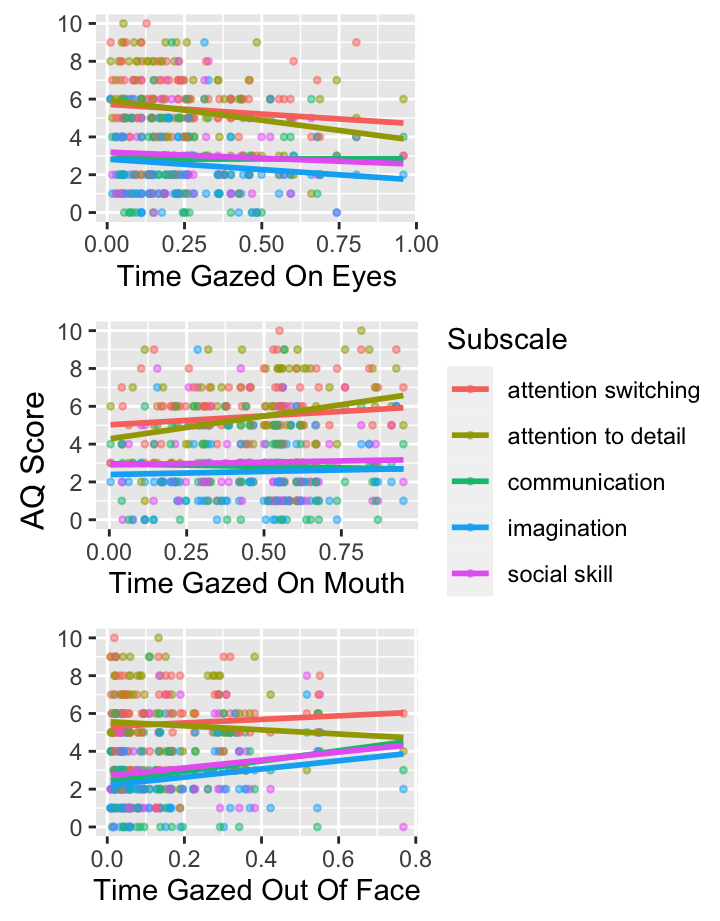
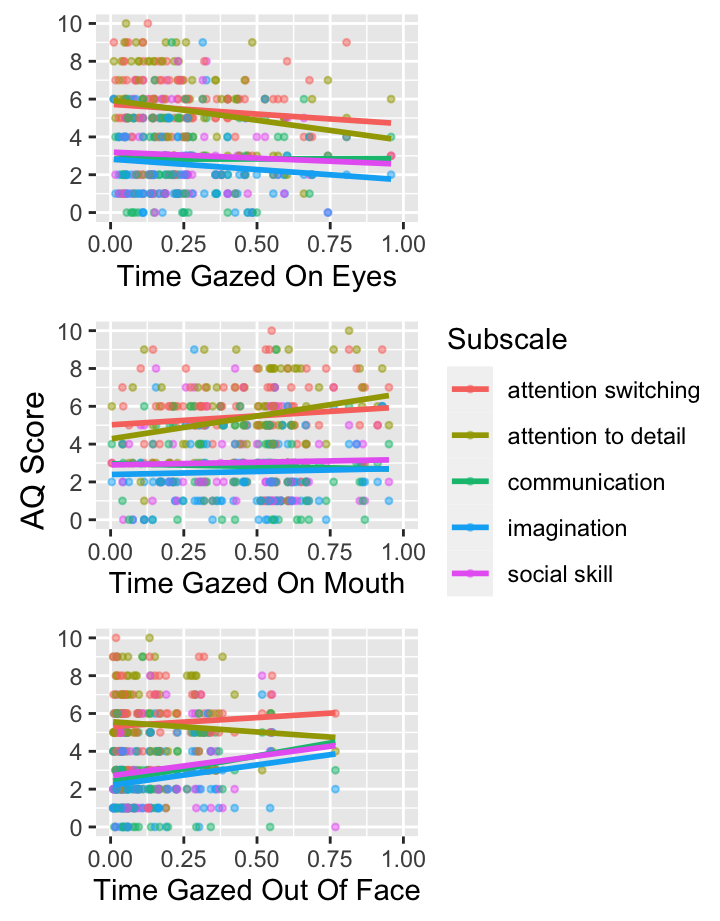
changed the last plot

diff --git a/docs/index.html b/docs/index.html
@@ -2011,8 +2011,8 @@ class="section level3">
 <div class="knitr-options" data-fig-width="960" data-fig-height="768">
 
 </div>
-<div class="plotly html-widget html-fill-item-overflow-hidden html-fill-item" id="htmlwidget-af808b2f5ba3160e1770" style="width:960px;height:768px;"></div>
-<script type="application/json" data-for="htmlwidget-af808b2f5ba3160e1770">{"x":{"data":[{"x":[1,2,3,4,5,6],"y":[1,2,3,4,5,6],"z":[[0,0,0.402298850574713,0,0.402298850574713,0],[null,0,0.609195402298851,0,0.0344827586206897,0],[null,null,0,0,0.0574712643678161,0],[null,null,null,1,0.816091954022989,0.413793103448276],[null,null,null,null,0.0804597701149425,0.137931034482759],[null,null,null,null,null,0.64367816091954]],"text":[["value: 0.00<br />Var1: social skill<br />Var2: communication","value: 0.00<br />Var1: total<br />Var2: communication","value: 0.35<br />Var1: attention to detail<br />Var2: communication","value: 0.00<br />Var1: imagination<br />Var2: communication","value: 0.35<br />Var1: fixation<br />Var2: communication","value: 0.00<br />Var1: attention switching<br />Var2: communication"],[null,"value: 0.00<br />Var1: total<br />Var2: social skill","value: 0.53<br />Var1: attention to detail<br />Var2: social skill","value: 0.00<br />Var1: imagination<br />Var2: social skill","value: 0.03<br />Var1: fixation<br />Var2: social skill","value: 0.00<br />Var1: attention switching<br />Var2: social skill"],[null,null,"value: 0.00<br />Var1: attention to detail<br />Var2: total","value: 0.00<br />Var1: imagination<br />Var2: total","value: 0.05<br />Var1: fixation<br />Var2: total","value: 0.00<br />Var1: attention switching<br />Var2: total"],[null,null,null,"value: 0.87<br />Var1: imagination<br />Var2: attention to detail","value: 0.71<br />Var1: fixation<br />Var2: attention to detail","value: 0.36<br />Var1: attention switching<br />Var2: attention to detail"],[null,null,null,null,"value: 0.07<br />Var1: fixation<br />Var2: imagination","value: 0.12<br />Var1: attention switching<br />Var2: imagination"],[null,null,null,null,null,"value: 0.56<br />Var1: attention switching<br />Var2: fixation"]],"colorscale":[[0,"#0000FF"],[0.0344827586206897,"#1C12FF"],[0.0574712643678161,"#251AFE"],[0.0804597701149425,"#2D21FE"],[0.137931034482759,"#3B2EFD"],[0.402298850574713,"#625DFA"],[0.413793103448276,"#635FF9"],[0.609195402298851,"#737DF6"],[0.64367816091954,"#7583F6"],[0.816091954022989,"#7F9CF2"],[1,"#85B8EF"]],"type":"heatmap","showscale":false,"autocolorscale":false,"showlegend":false,"xaxis":"x","yaxis":"y","hoverinfo":"text","frame":null},{"x":[3,5,3,4,5,6,5,6,6],"y":[1,1,2,4,4,4,5,5,6],"text":["value: 0.35<br />Var1: attention to detail<br />Var2: communication","value: 0.35<br />Var1: fixation<br />Var2: communication","value: 0.53<br />Var1: attention to detail<br />Var2: social skill","value: 0.87<br />Var1: imagination<br />Var2: attention to detail","value: 0.71<br />Var1: fixation<br />Var2: attention to detail","value: 0.36<br />Var1: attention switching<br />Var2: attention to detail","value: 0.07<br />Var1: fixation<br />Var2: imagination","value: 0.12<br />Var1: attention switching<br />Var2: imagination","value: 0.56<br />Var1: attention switching<br />Var2: fixation"],"type":"scatter","mode":"markers","marker":{"autocolorscale":false,"color":"rgba(98,93,250,1)","opacity":1,"size":18.8976377952756,"symbol":"x-thin-open","line":{"width":1.88976377952756,"color":"rgba(0,0,0,1)"}},"hoveron":"points","showlegend":false,"xaxis":"x","yaxis":"y","hoverinfo":"text","frame":null},{"x":[1],"y":[1],"name":"99_961f81cd83d32ebf523b360e6ae6b75b","type":"scatter","mode":"markers","opacity":0,"hoverinfo":"skip","showlegend":false,"marker":{"color":[0,1],"colorscale":[[0,"#00008B"],[0.00334448160535117,"#00008C"],[0.00668896321070234,"#00008C"],[0.0100334448160535,"#00008D"],[0.0133779264214047,"#00008E"],[0.0167224080267558,"#00008F"],[0.020066889632107,"#00008F"],[0.0234113712374582,"#000090"],[0.0267558528428093,"#000091"],[0.0301003344481605,"#000092"],[0.0334448160535117,"#000092"],[0.0367892976588629,"#000093"],[0.040133779264214,"#000094"],[0.0434782608695652,"#000095"],[0.0468227424749164,"#000095"],[0.0501672240802676,"#000096"],[0.0535117056856187,"#000097"],[0.0568561872909699,"#000098"],[0.0602006688963211,"#000098"],[0.0635451505016723,"#000099"],[0.0668896321070234,"#00009A"],[0.0702341137123746,"#00009A"],[0.0735785953177258,"#00009B"],[0.0769230769230769,"#00009C"],[0.0802675585284281,"#00009D"],[0.0836120401337793,"#00009D"],[0.0869565217391304,"#00009E"],[0.0903010033444816,"#00009F"],[0.0936454849498328,"#0000A0"],[0.0969899665551839,"#0000A0"],[0.100334448160535,"#0000A1"],[0.103678929765886,"#0000A2"],[0.107023411371237,"#0000A3"],[0.110367892976589,"#0000A3"],[0.11371237458194,"#0000A4"],[0.117056856187291,"#0000A5"],[0.120401337792642,"#0000A6"],[0.123745819397993,"#0000A6"],[0.127090301003345,"#0000A7"],[0.130434782608696,"#0000A8"],[0.133779264214047,"#0000A9"],[0.137123745819398,"#0000A9"],[0.140468227424749,"#0000AA"],[0.1438127090301,"#0000AB"],[0.147157190635452,"#0000AC"],[0.150501672240803,"#0000AD"],[0.153846153846154,"#0000AD"],[0.157190635451505,"#0000AE"],[0.160535117056856,"#0000AF"],[0.163879598662207,"#0000B0"],[0.167224080267559,"#0000B0"],[0.17056856187291,"#0000B1"],[0.173913043478261,"#0000B2"],[0.177257525083612,"#0000B3"],[0.180602006688963,"#0000B3"],[0.183946488294314,"#0000B4"],[0.187290969899666,"#0000B5"],[0.190635451505017,"#0000B6"],[0.193979933110368,"#0000B6"],[0.197324414715719,"#0000B7"],[0.20066889632107,"#0000B8"],[0.204013377926421,"#0000B9"],[0.207357859531773,"#0000BA"],[0.210702341137124,"#0000BA"],[0.214046822742475,"#0000BB"],[0.217391304347826,"#0000BC"],[0.220735785953177,"#0000BD"],[0.224080267558528,"#0000BD"],[0.22742474916388,"#0000BE"],[0.230769230769231,"#0000BF"],[0.234113712374582,"#0000C0"],[0.237458193979933,"#0000C0"],[0.240802675585284,"#0000C1"],[0.244147157190635,"#0000C2"],[0.247491638795987,"#0000C3"],[0.250836120401338,"#0000C4"],[0.254180602006689,"#0000C4"],[0.25752508361204,"#0000C5"],[0.260869565217391,"#0000C6"],[0.264214046822742,"#0000C7"],[0.267558528428094,"#0000C7"],[0.270903010033445,"#0000C8"],[0.274247491638796,"#0000C9"],[0.277591973244147,"#0000CA"],[0.280936454849498,"#0000CB"],[0.284280936454849,"#0000CB"],[0.287625418060201,"#0000CC"],[0.290969899665552,"#0000CD"],[0.294314381270903,"#0000CE"],[0.297658862876254,"#0000CF"],[0.301003344481605,"#0000CF"],[0.304347826086957,"#0000D0"],[0.307692307692308,"#0000D1"],[0.311036789297659,"#0000D2"],[0.31438127090301,"#0000D2"],[0.317725752508361,"#0000D3"],[0.321070234113712,"#0000D4"],[0.324414715719064,"#0000D5"],[0.327759197324415,"#0000D6"],[0.331103678929766,"#0000D6"],[0.334448160535117,"#0000D7"],[0.337792642140468,"#0000D8"],[0.341137123745819,"#0000D9"],[0.344481605351171,"#0000DA"],[0.347826086956522,"#0000DA"],[0.351170568561873,"#0000DB"],[0.354515050167224,"#0000DC"],[0.357859531772575,"#0000DD"],[0.361204013377926,"#0000DE"],[0.364548494983278,"#0000DE"],[0.367892976588629,"#0000DF"],[0.37123745819398,"#0000E0"],[0.374581939799331,"#0000E1"],[0.377926421404682,"#0000E2"],[0.381270903010033,"#0000E2"],[0.384615384615385,"#0000E3"],[0.387959866220736,"#0000E4"],[0.391304347826087,"#0000E5"],[0.394648829431438,"#0000E6"],[0.397993311036789,"#0000E6"],[0.40133779264214,"#0000E7"],[0.404682274247492,"#0000E8"],[0.408026755852843,"#0000E9"],[0.411371237458194,"#0000EA"],[0.414715719063545,"#0000EA"],[0.418060200668896,"#0000EB"],[0.421404682274247,"#0000EC"],[0.424749163879599,"#0000ED"],[0.42809364548495,"#0000EE"],[0.431438127090301,"#0000EE"],[0.434782608695652,"#0000EF"],[0.438127090301003,"#0000F0"],[0.441471571906354,"#0000F1"],[0.444816053511706,"#0000F2"],[0.448160535117057,"#0000F2"],[0.451505016722408,"#0000F3"],[0.454849498327759,"#0000F4"],[0.45819397993311,"#0000F5"],[0.461538461538462,"#0000F6"],[0.464882943143813,"#0000F6"],[0.468227424749164,"#0000F7"],[0.471571906354515,"#0000F8"],[0.474916387959866,"#0000F9"],[0.478260869565217,"#0000FA"],[0.481605351170569,"#0000FB"],[0.48494983277592,"#0000FB"],[0.488294314381271,"#0000FC"],[0.491638795986622,"#0000FD"],[0.494983277591973,"#0000FE"],[0.498327759197324,"#0000FF"],[0.501672240802676,"#0402FF"],[0.505016722408027,"#0C06FF"],[0.508361204013378,"#130BFF"],[0.511705685618729,"#170FFF"],[0.51505016722408,"#1C12FF"],[0.518394648829431,"#1F15FE"],[0.521739130434783,"#2218FE"],[0.525083612040134,"#251AFE"],[0.528428093645485,"#281DFE"],[0.531772575250836,"#2B1FFE"],[0.535117056856187,"#2D21FE"],[0.538461538461538,"#2F23FE"],[0.54180602006689,"#3125FE"],[0.545150501672241,"#3327FE"],[0.548494983277592,"#3529FE"],[0.551839464882943,"#372AFE"],[0.555183946488294,"#392CFD"],[0.558528428093645,"#3B2EFD"],[0.561872909698997,"#3C2FFD"],[0.565217391304348,"#3E31FD"],[0.568561872909699,"#4033FD"],[0.57190635451505,"#4134FD"],[0.575250836120401,"#4336FD"],[0.578595317725752,"#4437FD"],[0.581939799331104,"#4539FD"],[0.585284280936455,"#473AFD"],[0.588628762541806,"#483CFC"],[0.591973244147157,"#493DFC"],[0.595317725752508,"#4B3EFC"],[0.598662207357859,"#4C40FC"],[0.602006688963211,"#4D41FC"],[0.605351170568562,"#4E43FC"],[0.608695652173913,"#4F44FC"],[0.612040133779264,"#5045FC"],[0.615384615384615,"#5147FC"],[0.618729096989967,"#5248FB"],[0.622073578595318,"#5449FB"],[0.625418060200669,"#554BFB"],[0.62876254180602,"#564CFB"],[0.632107023411371,"#574DFB"],[0.635451505016722,"#584FFB"],[0.638795986622074,"#5850FB"],[0.642140468227425,"#5951FB"],[0.645484949832776,"#5A52FB"],[0.648829431438127,"#5B54FB"],[0.652173913043478,"#5C55FA"],[0.655518394648829,"#5D56FA"],[0.658862876254181,"#5E57FA"],[0.662207357859532,"#5F59FA"],[0.665551839464883,"#605AFA"],[0.668896321070234,"#605BFA"],[0.672240802675585,"#615CFA"],[0.675585284280936,"#625EFA"],[0.678929765886288,"#635FF9"],[0.682274247491639,"#6360F9"],[0.68561872909699,"#6461F9"],[0.688963210702341,"#6563F9"],[0.692307692307692,"#6664F9"],[0.695652173913043,"#6665F9"],[0.698996655518395,"#6766F9"],[0.702341137123746,"#6867F9"],[0.705685618729097,"#6969F9"],[0.709030100334448,"#696AF8"],[0.712374581939799,"#6A6BF8"],[0.71571906354515,"#6B6CF8"],[0.719063545150502,"#6B6DF8"],[0.722408026755853,"#6C6EF8"],[0.725752508361204,"#6C70F8"],[0.729096989966555,"#6D71F8"],[0.732441471571906,"#6E72F8"],[0.735785953177257,"#6E73F7"],[0.739130434782609,"#6F74F7"],[0.74247491638796,"#6F76F7"],[0.745819397993311,"#7077F7"],[0.749163879598662,"#7178F7"],[0.752508361204013,"#7179F7"],[0.755852842809364,"#727AF7"],[0.759197324414716,"#727BF7"],[0.762541806020067,"#737DF6"],[0.765886287625418,"#737EF6"],[0.769230769230769,"#747FF6"],[0.77257525083612,"#7480F6"],[0.775919732441472,"#7581F6"],[0.779264214046823,"#7582F6"],[0.782608695652174,"#7683F6"],[0.785953177257525,"#7685F5"],[0.789297658862876,"#7786F5"],[0.792642140468227,"#7787F5"],[0.795986622073579,"#7888F5"],[0.79933110367893,"#7889F5"],[0.802675585284281,"#798AF5"],[0.806020066889632,"#798CF5"],[0.809364548494983,"#798DF4"],[0.812709030100334,"#7A8EF4"],[0.816053511705686,"#7A8FF4"],[0.819397993311037,"#7B90F4"],[0.822742474916388,"#7B91F4"],[0.826086956521739,"#7B92F4"],[0.82943143812709,"#7C94F4"],[0.832775919732441,"#7C95F3"],[0.836120401337793,"#7D96F3"],[0.839464882943144,"#7D97F3"],[0.842809364548495,"#7D98F3"],[0.846153846153846,"#7E99F3"],[0.849498327759197,"#7E9AF3"],[0.852842809364548,"#7E9CF3"],[0.8561872909699,"#7F9DF2"],[0.859531772575251,"#7F9EF2"],[0.862876254180602,"#7F9FF2"],[0.866220735785953,"#80A0F2"],[0.869565217391304,"#80A1F2"],[0.872909698996655,"#80A3F2"],[0.876254180602007,"#81A4F1"],[0.879598662207358,"#81A5F1"],[0.882943143812709,"#81A6F1"],[0.88628762541806,"#81A7F1"],[0.889632107023411,"#82A8F1"],[0.892976588628763,"#82A9F1"],[0.896321070234114,"#82ABF0"],[0.899665551839465,"#82ACF0"],[0.903010033444816,"#83ADF0"],[0.906354515050167,"#83AEF0"],[0.909698996655518,"#83AFF0"],[0.91304347826087,"#83B0F0"],[0.916387959866221,"#84B1EF"],[0.919732441471572,"#84B3EF"],[0.923076923076923,"#84B4EF"],[0.926421404682274,"#84B5EF"],[0.929765886287625,"#84B6EF"],[0.933110367892977,"#85B7EF"],[0.936454849498328,"#85B8EE"],[0.939799331103679,"#85B9EE"],[0.94314381270903,"#85BBEE"],[0.946488294314381,"#85BCEE"],[0.949832775919732,"#85BDEE"],[0.953177257525084,"#86BEEE"],[0.956521739130435,"#86BFED"],[0.959866220735786,"#86C0ED"],[0.963210702341137,"#86C1ED"],[0.966555183946488,"#86C3ED"],[0.969899665551839,"#86C4ED"],[0.973244147157191,"#86C5ED"],[0.976588628762542,"#86C6EC"],[0.979933110367893,"#87C7EC"],[0.983277591973244,"#87C8EC"],[0.986622073578595,"#87C9EC"],[0.989966555183946,"#87CBEC"],[0.993311036789298,"#87CCEB"],[0.996655518394649,"#87CDEB"],[1,"#87CEEB"]],"colorbar":{"bgcolor":null,"bordercolor":null,"borderwidth":0,"thickness":23.04,"title":"Corr","titlefont":{"color":"rgba(0,0,0,1)","family":"","size":14.6118721461187},"tickmode":"array","ticktext":["-1.0","-0.5","0.0","0.5","1.0"],"tickvals":[0,0.25,0.5,0.75,1],"tickfont":{"color":"rgba(0,0,0,1)","family":"","size":11.689497716895},"ticklen":2,"len":0.5}},"xaxis":"x","yaxis":"y","frame":null}],"layout":{"margin":{"t":25.1324200913242,"r":7.30593607305936,"b":92.7755251489066,"l":162.39103362391},"font":{"color":"rgba(0,0,0,1)","family":"","size":14.6118721461187},"xaxis":{"domain":[0,1],"automargin":true,"type":"linear","autorange":false,"range":[0.4,6.6],"tickmode":"array","ticktext":["social skill","total","attention to detail","imagination","fixation","attention switching"],"tickvals":[1,2,3,4,5,6],"categoryorder":"array","categoryarray":["social skill","total","attention to detail","imagination","fixation","attention switching"],"nticks":null,"ticks":"","tickcolor":null,"ticklen":3.65296803652968,"tickwidth":0,"showticklabels":true,"tickfont":{"color":"rgba(77,77,77,1)","family":"","size":15.9402241594022},"tickangle":-45,"showline":false,"linecolor":null,"linewidth":0,"showgrid":true,"gridcolor":"rgba(235,235,235,1)","gridwidth":0.66417600664176,"zeroline":false,"anchor":"y","title":{"text":"","font":{"color":null,"family":null,"size":0}},"scaleanchor":"y","scaleratio":1,"hoverformat":".2f"},"yaxis":{"domain":[0,1],"automargin":true,"type":"linear","autorange":false,"range":[0.4,6.6],"tickmode":"array","ticktext":["communication","social skill","total","attention to detail","imagination","fixation"],"tickvals":[1,2,3,4,5,6],"categoryorder":"array","categoryarray":["communication","social skill","total","attention to detail","imagination","fixation"],"nticks":null,"ticks":"","tickcolor":null,"ticklen":3.65296803652968,"tickwidth":0,"showticklabels":true,"tickfont":{"color":"rgba(77,77,77,1)","family":"","size":15.9402241594022},"tickangle":-0,"showline":false,"linecolor":null,"linewidth":0,"showgrid":true,"gridcolor":"rgba(235,235,235,1)","gridwidth":0.66417600664176,"zeroline":false,"anchor":"x","title":{"text":"","font":{"color":null,"family":null,"size":0}},"scaleanchor":"x","scaleratio":1,"hoverformat":".2f"},"shapes":[{"type":"rect","fillcolor":null,"line":{"color":null,"width":0,"linetype":[]},"yref":"paper","xref":"paper","x0":0,"x1":1,"y0":0,"y1":1}],"showlegend":false,"legend":{"bgcolor":null,"bordercolor":null,"borderwidth":0,"font":{"color":"rgba(0,0,0,1)","family":"","size":11.689497716895},"title":{"text":"","font":{"color":"rgba(0,0,0,1)","family":"","size":14.6118721461187}}},"hovermode":"closest","barmode":"relative"},"config":{"doubleClick":"reset","modeBarButtonsToAdd":["hoverclosest","hovercompare"],"showSendToCloud":false},"source":"A","attrs":{"7d983456a292":{"fill":{},"x":{},"y":{},"type":"heatmap"},"7d9823cb3a16":{"fill":{},"x":{},"y":{}}},"cur_data":"7d983456a292","visdat":{"7d983456a292":["function (y) ","x"],"7d9823cb3a16":["function (y) ","x"]},"highlight":{"on":"plotly_click","persistent":false,"dynamic":false,"selectize":false,"opacityDim":0.2,"selected":{"opacity":1},"debounce":0},"shinyEvents":["plotly_hover","plotly_click","plotly_selected","plotly_relayout","plotly_brushed","plotly_brushing","plotly_clickannotation","plotly_doubleclick","plotly_deselect","plotly_afterplot","plotly_sunburstclick"],"base_url":"https://plot.ly"},"evals":[],"jsHooks":[]}</script>
+<div class="plotly html-widget html-fill-item-overflow-hidden html-fill-item" id="htmlwidget-35739a0f27ff62c9fadf" style="width:960px;height:768px;"></div>
+<script type="application/json" data-for="htmlwidget-35739a0f27ff62c9fadf">{"x":{"data":[{"x":[1,2,3,4,5,6],"y":[1,2,3,4,5,6],"z":[[0,0,0.402298850574713,0,0.402298850574713,0],[null,0,0.609195402298851,0,0.0344827586206897,0],[null,null,0,0,0.0574712643678161,0],[null,null,null,1,0.816091954022989,0.413793103448276],[null,null,null,null,0.0804597701149425,0.137931034482759],[null,null,null,null,null,0.64367816091954]],"text":[["value: 0.00<br />Var1: social skill<br />Var2: communication","value: 0.00<br />Var1: total<br />Var2: communication","value: 0.35<br />Var1: attention to detail<br />Var2: communication","value: 0.00<br />Var1: imagination<br />Var2: communication","value: 0.35<br />Var1: fixation<br />Var2: communication","value: 0.00<br />Var1: attention switching<br />Var2: communication"],[null,"value: 0.00<br />Var1: total<br />Var2: social skill","value: 0.53<br />Var1: attention to detail<br />Var2: social skill","value: 0.00<br />Var1: imagination<br />Var2: social skill","value: 0.03<br />Var1: fixation<br />Var2: social skill","value: 0.00<br />Var1: attention switching<br />Var2: social skill"],[null,null,"value: 0.00<br />Var1: attention to detail<br />Var2: total","value: 0.00<br />Var1: imagination<br />Var2: total","value: 0.05<br />Var1: fixation<br />Var2: total","value: 0.00<br />Var1: attention switching<br />Var2: total"],[null,null,null,"value: 0.87<br />Var1: imagination<br />Var2: attention to detail","value: 0.71<br />Var1: fixation<br />Var2: attention to detail","value: 0.36<br />Var1: attention switching<br />Var2: attention to detail"],[null,null,null,null,"value: 0.07<br />Var1: fixation<br />Var2: imagination","value: 0.12<br />Var1: attention switching<br />Var2: imagination"],[null,null,null,null,null,"value: 0.56<br />Var1: attention switching<br />Var2: fixation"]],"colorscale":[[0,"#F7FAFC"],[0.0344827586206897,"#FCFDFE"],[0.0574712643678161,"#FFFFFF"],[0.0804597701149425,"#FFFCFA"],[0.137931034482759,"#FFF4EE"],[0.402298850574713,"#FFCFB8"],[0.413793103448276,"#FFCDB6"],[0.609195402298851,"#FDB38F"],[0.64367816091954,"#FCAE89"],[0.816091954022989,"#F59668"],[1,"#ED7C44"]],"type":"heatmap","showscale":false,"autocolorscale":false,"showlegend":false,"xaxis":"x","yaxis":"y","hoverinfo":"text","frame":null},{"x":[1,2,3,4,5,6,2,3,4,5,6,3,4,5,6,4,5,6,5,6,6],"y":[1,1,1,1,1,1,2,2,2,2,2,3,3,3,3,4,4,4,5,5,6],"text":[0,0,0.35,0,0.35,0,0,0.53,0,0.03,0,0,0,0.05,0,0.87,0.71,0.36,0.07,0.12,0.56],"hovertext":["value: 0.00<br />Var1: social skill<br />Var2: communication","value: 0.00<br />Var1: total<br />Var2: communication","value: 0.35<br />Var1: attention to detail<br />Var2: communication","value: 0.00<br />Var1: imagination<br />Var2: communication","value: 0.35<br />Var1: fixation<br />Var2: communication","value: 0.00<br />Var1: attention switching<br />Var2: communication","value: 0.00<br />Var1: total<br />Var2: social skill","value: 0.53<br />Var1: attention to detail<br />Var2: social skill","value: 0.00<br />Var1: imagination<br />Var2: social skill","value: 0.03<br />Var1: fixation<br />Var2: social skill","value: 0.00<br />Var1: attention switching<br />Var2: social skill","value: 0.00<br />Var1: attention to detail<br />Var2: total","value: 0.00<br />Var1: imagination<br />Var2: total","value: 0.05<br />Var1: fixation<br />Var2: total","value: 0.00<br />Var1: attention switching<br />Var2: total","value: 0.87<br />Var1: imagination<br />Var2: attention to detail","value: 0.71<br />Var1: fixation<br />Var2: attention to detail","value: 0.36<br />Var1: attention switching<br />Var2: attention to detail","value: 0.07<br />Var1: fixation<br />Var2: imagination","value: 0.12<br />Var1: attention switching<br />Var2: imagination","value: 0.56<br />Var1: attention switching<br />Var2: fixation"],"textfont":{"size":18.8976377952756,"color":"rgba(0,0,0,1)"},"type":"scatter","mode":"text","hoveron":"points","showlegend":false,"xaxis":"x","yaxis":"y","hoverinfo":"text","frame":null},{"x":[1],"y":[1],"name":"99_a7c8c7773e15b2d8a0dbb75cee8d6ae5","type":"scatter","mode":"markers","opacity":0,"hoverinfo":"skip","showlegend":false,"marker":{"color":[0,1],"colorscale":[[0,"#F7FAFC"],[0.00334448160535117,"#F8FAFC"],[0.00668896321070234,"#F8FAFC"],[0.0100334448160535,"#F9FBFC"],[0.0133779264214047,"#F9FBFD"],[0.0167224080267559,"#FAFBFD"],[0.020066889632107,"#FAFCFD"],[0.0234113712374582,"#FBFCFD"],[0.0267558528428094,"#FBFDFD"],[0.0301003344481605,"#FCFDFE"],[0.0334448160535117,"#FDFDFE"],[0.0367892976588629,"#FDFEFE"],[0.040133779264214,"#FEFEFE"],[0.0434782608695652,"#FEFEFF"],[0.0468227424749164,"#FFFFFF"],[0.0501672240802676,"#FFFFFF"],[0.0535117056856187,"#FFFEFE"],[0.0568561872909699,"#FFFEFD"],[0.0602006688963211,"#FFFDFD"],[0.0635451505016722,"#FFFDFC"],[0.0668896321070234,"#FFFCFB"],[0.0702341137123746,"#FFFCFA"],[0.0735785953177257,"#FFFBF9"],[0.0769230769230769,"#FFFBF9"],[0.0802675585284281,"#FFFAF8"],[0.0836120401337793,"#FFFAF7"],[0.0869565217391304,"#FFF9F6"],[0.0903010033444816,"#FFF9F5"],[0.0936454849498328,"#FFF8F5"],[0.096989966555184,"#FFF7F4"],[0.100334448160535,"#FFF7F3"],[0.103678929765886,"#FFF6F2"],[0.107023411371237,"#FFF6F1"],[0.110367892976589,"#FFF5F1"],[0.11371237458194,"#FFF5F0"],[0.117056856187291,"#FFF4EF"],[0.120401337792642,"#FFF4EE"],[0.123745819397993,"#FFF3ED"],[0.127090301003344,"#FFF3ED"],[0.130434782608696,"#FFF2EC"],[0.133779264214047,"#FFF2EB"],[0.137123745819398,"#FFF1EA"],[0.140468227424749,"#FFF0E9"],[0.1438127090301,"#FFF0E9"],[0.147157190635451,"#FFEFE8"],[0.150501672240803,"#FFEFE7"],[0.153846153846154,"#FFEEE6"],[0.157190635451505,"#FFEEE5"],[0.160535117056856,"#FFEDE5"],[0.163879598662207,"#FFEDE4"],[0.167224080267559,"#FFECE3"],[0.17056856187291,"#FFECE2"],[0.173913043478261,"#FFEBE1"],[0.177257525083612,"#FFEBE1"],[0.180602006688963,"#FFEAE0"],[0.183946488294314,"#FFEADF"],[0.187290969899666,"#FFE9DE"],[0.190635451505017,"#FFE8DD"],[0.193979933110368,"#FFE8DD"],[0.197324414715719,"#FFE7DC"],[0.20066889632107,"#FFE7DB"],[0.204013377926421,"#FFE6DA"],[0.207357859531773,"#FFE6DA"],[0.210702341137124,"#FFE5D9"],[0.214046822742475,"#FFE5D8"],[0.217391304347826,"#FFE4D7"],[0.220735785953177,"#FFE4D6"],[0.224080267558528,"#FFE3D6"],[0.22742474916388,"#FFE3D5"],[0.230769230769231,"#FFE2D4"],[0.234113712374582,"#FFE1D3"],[0.237458193979933,"#FFE1D2"],[0.240802675585284,"#FFE0D2"],[0.244147157190635,"#FFE0D1"],[0.247491638795987,"#FFDFD0"],[0.250836120401338,"#FFDFCF"],[0.254180602006689,"#FFDECF"],[0.25752508361204,"#FFDECE"],[0.260869565217391,"#FFDDCD"],[0.264214046822742,"#FFDDCC"],[0.267558528428094,"#FFDCCB"],[0.270903010033445,"#FFDCCB"],[0.274247491638796,"#FFDBCA"],[0.277591973244147,"#FFDBC9"],[0.280936454849498,"#FFDAC8"],[0.284280936454849,"#FFD9C8"],[0.287625418060201,"#FFD9C7"],[0.290969899665552,"#FFD8C6"],[0.294314381270903,"#FFD8C5"],[0.297658862876254,"#FFD7C4"],[0.301003344481605,"#FFD7C4"],[0.304347826086957,"#FFD6C3"],[0.307692307692308,"#FFD6C2"],[0.311036789297659,"#FFD5C1"],[0.31438127090301,"#FFD5C1"],[0.317725752508361,"#FFD4C0"],[0.321070234113712,"#FFD4BF"],[0.324414715719064,"#FFD3BE"],[0.327759197324415,"#FFD3BD"],[0.331103678929766,"#FFD2BD"],[0.334448160535117,"#FFD2BC"],[0.337792642140468,"#FFD1BB"],[0.341137123745819,"#FFD0BA"],[0.344481605351171,"#FFD0BA"],[0.347826086956522,"#FFCFB9"],[0.351170568561873,"#FFCFB8"],[0.354515050167224,"#FFCEB7"],[0.357859531772575,"#FFCEB6"],[0.361204013377926,"#FFCDB6"],[0.364548494983278,"#FFCDB5"],[0.367892976588629,"#FFCCB4"],[0.37123745819398,"#FFCCB3"],[0.374581939799331,"#FFCBB3"],[0.377926421404682,"#FFCBB2"],[0.381270903010033,"#FFCAB1"],[0.384615384615385,"#FFCAB0"],[0.387959866220736,"#FFC9B0"],[0.391304347826087,"#FFC8AF"],[0.394648829431438,"#FFC8AE"],[0.397993311036789,"#FFC7AD"],[0.40133779264214,"#FFC7AD"],[0.404682274247492,"#FFC6AC"],[0.408026755852843,"#FFC6AB"],[0.411371237458194,"#FFC5AA"],[0.414715719063545,"#FFC5A9"],[0.418060200668896,"#FFC4A9"],[0.421404682274247,"#FFC4A8"],[0.424749163879599,"#FFC3A7"],[0.42809364548495,"#FFC3A6"],[0.431438127090301,"#FFC2A6"],[0.434782608695652,"#FFC2A5"],[0.438127090301003,"#FFC1A4"],[0.441471571906354,"#FFC1A3"],[0.444816053511706,"#FFC0A3"],[0.448160535117057,"#FFBFA2"],[0.451505016722408,"#FFBFA1"],[0.454849498327759,"#FFBEA0"],[0.45819397993311,"#FFBEA0"],[0.461538461538462,"#FFBD9F"],[0.464882943143813,"#FEBD9E"],[0.468227424749164,"#FEBC9D"],[0.471571906354515,"#FEBC9D"],[0.474916387959866,"#FEBB9C"],[0.478260869565217,"#FEBB9B"],[0.481605351170569,"#FEBA9A"],[0.48494983277592,"#FEBA9A"],[0.488294314381271,"#FEB999"],[0.491638795986622,"#FEB998"],[0.494983277591973,"#FEB897"],[0.498327759197324,"#FEB897"],[0.501672240802676,"#FDB796"],[0.505016722408027,"#FDB695"],[0.508361204013378,"#FDB694"],[0.511705685618729,"#FDB594"],[0.51505016722408,"#FDB593"],[0.518394648829431,"#FDB492"],[0.521739130434783,"#FDB491"],[0.525083612040134,"#FDB391"],[0.528428093645485,"#FDB390"],[0.531772575250836,"#FDB28F"],[0.535117056856187,"#FCB28E"],[0.538461538461538,"#FCB18E"],[0.54180602006689,"#FCB18D"],[0.545150501672241,"#FCB08C"],[0.548494983277592,"#FCB08B"],[0.551839464882943,"#FCAF8B"],[0.555183946488294,"#FCAF8A"],[0.558528428093645,"#FCAE89"],[0.561872909698997,"#FBAE88"],[0.565217391304348,"#FBAD88"],[0.568561872909699,"#FBAC87"],[0.57190635451505,"#FBAC86"],[0.575250836120401,"#FBAB85"],[0.578595317725752,"#FBAB85"],[0.581939799331104,"#FBAA84"],[0.585284280936455,"#FBAA83"],[0.588628762541806,"#FBA982"],[0.591973244147157,"#FAA982"],[0.595317725752508,"#FAA881"],[0.598662207357859,"#FAA880"],[0.602006688963211,"#FAA77F"],[0.605351170568562,"#FAA77F"],[0.608695652173913,"#FAA67E"],[0.612040133779264,"#FAA67D"],[0.615384615384615,"#F9A57C"],[0.618729096989967,"#F9A57C"],[0.622073578595318,"#F9A47B"],[0.625418060200669,"#F9A37A"],[0.62876254180602,"#F9A379"],[0.632107023411371,"#F9A279"],[0.635451505016722,"#F9A278"],[0.638795986622074,"#F9A177"],[0.642140468227425,"#F8A177"],[0.645484949832776,"#F8A076"],[0.648829431438127,"#F8A075"],[0.652173913043478,"#F89F74"],[0.655518394648829,"#F89F74"],[0.658862876254181,"#F89E73"],[0.662207357859532,"#F89E72"],[0.665551839464883,"#F79D71"],[0.668896321070234,"#F79D71"],[0.672240802675585,"#F79C70"],[0.675585284280936,"#F79B6F"],[0.678929765886288,"#F79B6E"],[0.682274247491639,"#F79A6E"],[0.68561872909699,"#F69A6D"],[0.688963210702341,"#F6996C"],[0.692307692307692,"#F6996B"],[0.695652173913043,"#F6986B"],[0.698996655518395,"#F6986A"],[0.702341137123746,"#F69769"],[0.705685618729097,"#F69769"],[0.709030100334448,"#F59668"],[0.712374581939799,"#F59667"],[0.71571906354515,"#F59566"],[0.719063545150502,"#F59566"],[0.722408026755853,"#F59465"],[0.725752508361204,"#F59464"],[0.729096989966555,"#F49363"],[0.732441471571906,"#F49263"],[0.735785953177257,"#F49262"],[0.739130434782609,"#F49161"],[0.74247491638796,"#F49160"],[0.745819397993311,"#F49060"],[0.749163879598662,"#F3905F"],[0.752508361204013,"#F38F5E"],[0.755852842809364,"#F38F5E"],[0.759197324414716,"#F38E5D"],[0.762541806020067,"#F38E5C"],[0.765886287625418,"#F28D5B"],[0.769230769230769,"#F28D5B"],[0.77257525083612,"#F28C5A"],[0.775919732441472,"#F28C59"],[0.779264214046823,"#F28B58"],[0.782608695652174,"#F28A58"],[0.785953177257525,"#F18A57"],[0.789297658862876,"#F18956"],[0.792642140468227,"#F18955"],[0.795986622073579,"#F18855"],[0.79933110367893,"#F18854"],[0.802675585284281,"#F08753"],[0.806020066889632,"#F08753"],[0.809364548494983,"#F08652"],[0.812709030100334,"#F08651"],[0.816053511705686,"#F08550"],[0.819397993311037,"#F08550"],[0.822742474916388,"#EF844F"],[0.826086956521739,"#EF834E"],[0.82943143812709,"#EF834D"],[0.832775919732441,"#EF824D"],[0.836120401337793,"#EF824C"],[0.839464882943144,"#EE814B"],[0.842809364548495,"#EE814A"],[0.846153846153846,"#EE804A"],[0.849498327759197,"#EE8049"],[0.852842809364548,"#EE7F48"],[0.8561872909699,"#ED7F47"],[0.859531772575251,"#ED7E47"],[0.862876254180602,"#ED7E46"],[0.866220735785953,"#ED7D45"],[0.869565217391304,"#ED7C44"],[0.872909698996655,"#EC7C44"],[0.876254180602007,"#EC7B43"],[0.879598662207358,"#EC7B42"],[0.882943143812709,"#EC7A41"],[0.88628762541806,"#EC7A41"],[0.889632107023411,"#EB7940"],[0.892976588628763,"#EB793F"],[0.896321070234114,"#EB783E"],[0.899665551839465,"#EB783E"],[0.903010033444816,"#EA773D"],[0.906354515050167,"#EA763C"],[0.909698996655518,"#EA763B"],[0.91304347826087,"#EA753B"],[0.916387959866221,"#EA753A"],[0.919732441471572,"#E97439"],[0.923076923076923,"#E97438"],[0.926421404682274,"#E97338"],[0.929765886287625,"#E97337"],[0.933110367892977,"#E97236"],[0.936454849498328,"#E87235"],[0.939799331103679,"#E87135"],[0.94314381270903,"#E87034"],[0.946488294314381,"#E87033"],[0.949832775919732,"#E76F32"],[0.953177257525084,"#E76F31"],[0.956521739130435,"#E76E31"],[0.959866220735786,"#E76E30"],[0.963210702341137,"#E76D2F"],[0.966555183946488,"#E66D2E"],[0.969899665551839,"#E66C2D"],[0.973244147157191,"#E66B2D"],[0.976588628762542,"#E66B2C"],[0.979933110367893,"#E56A2B"],[0.983277591973244,"#E56A2A"],[0.986622073578595,"#E56929"],[0.989966555183946,"#E56929"],[0.993311036789298,"#E46828"],[0.996655518394649,"#E46827"],[1,"#E46726"]],"colorbar":{"bgcolor":null,"bordercolor":null,"borderwidth":0,"thickness":23.04,"title":"value","titlefont":{"color":"rgba(0,0,0,1)","family":"","size":14.6118721461187},"tickmode":"array","ticktext":["0.00","0.25","0.50","0.75","1.00"],"tickvals":[0,0.25,0.5,0.75,1],"tickfont":{"color":"rgba(0,0,0,1)","family":"","size":11.689497716895},"ticklen":2,"len":0.5}},"xaxis":"x","yaxis":"y","frame":null}],"layout":{"margin":{"t":25.1324200913242,"r":7.30593607305936,"b":92.7755251489066,"l":162.39103362391},"font":{"color":"rgba(0,0,0,1)","family":"","size":14.6118721461187},"xaxis":{"domain":[0,1],"automargin":true,"type":"linear","autorange":false,"range":[0.4,6.6],"tickmode":"array","ticktext":["social skill","total","attention to detail","imagination","fixation","attention switching"],"tickvals":[1,2,3,4,5,6],"categoryorder":"array","categoryarray":["social skill","total","attention to detail","imagination","fixation","attention switching"],"nticks":null,"ticks":"","tickcolor":null,"ticklen":3.65296803652968,"tickwidth":0,"showticklabels":true,"tickfont":{"color":"rgba(77,77,77,1)","family":"","size":15.9402241594022},"tickangle":-45,"showline":false,"linecolor":null,"linewidth":0,"showgrid":true,"gridcolor":"rgba(235,235,235,1)","gridwidth":0.66417600664176,"zeroline":false,"anchor":"y","title":{"text":"","font":{"color":null,"family":null,"size":0}},"scaleanchor":"y","scaleratio":1,"hoverformat":".2f"},"yaxis":{"domain":[0,1],"automargin":true,"type":"linear","autorange":false,"range":[0.4,6.6],"tickmode":"array","ticktext":["communication","social skill","total","attention to detail","imagination","fixation"],"tickvals":[1,2,3,4,5,6],"categoryorder":"array","categoryarray":["communication","social skill","total","attention to detail","imagination","fixation"],"nticks":null,"ticks":"","tickcolor":null,"ticklen":3.65296803652968,"tickwidth":0,"showticklabels":true,"tickfont":{"color":"rgba(77,77,77,1)","family":"","size":15.9402241594022},"tickangle":-0,"showline":false,"linecolor":null,"linewidth":0,"showgrid":true,"gridcolor":"rgba(235,235,235,1)","gridwidth":0.66417600664176,"zeroline":false,"anchor":"x","title":{"text":"","font":{"color":null,"family":null,"size":0}},"scaleanchor":"x","scaleratio":1,"hoverformat":".2f"},"shapes":[{"type":"rect","fillcolor":null,"line":{"color":null,"width":0,"linetype":[]},"yref":"paper","xref":"paper","x0":0,"x1":1,"y0":0,"y1":1}],"showlegend":false,"legend":{"bgcolor":null,"bordercolor":null,"borderwidth":0,"font":{"color":"rgba(0,0,0,1)","family":"","size":11.689497716895},"title":{"text":"","font":{"color":"rgba(0,0,0,1)","family":"","size":14.6118721461187}}},"hovermode":"closest","barmode":"relative"},"config":{"doubleClick":"reset","modeBarButtonsToAdd":["hoverclosest","hovercompare"],"showSendToCloud":false},"source":"A","attrs":{"a2af5d19222c":{"fill":{},"x":{},"y":{},"type":"heatmap"},"a2af1d12a674":{"fill":{},"x":{},"y":{}}},"cur_data":"a2af5d19222c","visdat":{"a2af5d19222c":["function (y) ","x"],"a2af1d12a674":["function (y) ","x"]},"highlight":{"on":"plotly_click","persistent":false,"dynamic":false,"selectize":false,"opacityDim":0.2,"selected":{"opacity":1},"debounce":0},"shinyEvents":["plotly_hover","plotly_click","plotly_selected","plotly_relayout","plotly_brushed","plotly_brushing","plotly_clickannotation","plotly_doubleclick","plotly_deselect","plotly_afterplot","plotly_sunburstclick"],"base_url":"https://plot.ly"},"evals":[],"jsHooks":[]}</script>
 </div>
 </div>
 <div id="row-6" class="section level2">
@@ -2261,6 +2261,7 @@ plot.f &lt;- ggplot(exp.f, aes(Off, score, colour = Subscale)) +
   ylab('AQ Score') +
   geom_smooth(method=lm, se = FALSE)+
   scale_y_continuous(breaks=c(0,2,4,6,8,10)) +
+  xlim(0,1)+
   theme(axis.title.y = element_blank())
 
 # EYES
@@ -2283,6 +2284,7 @@ plot.e &lt;- ggplot(exp.e, aes(Eyes, score, colour = Subscale)) +
   ylab('AQ Score') +
   geom_smooth(method=lm, se = FALSE) +
   scale_y_continuous(breaks=c(0,2,4,6,8,10)) +
+  xlim(0,1)+
   theme(axis.title.y = element_blank())
 
 # MOUTH
@@ -2305,12 +2307,14 @@ plot.m &lt;- ggplot(exp.m, aes(Mouth, score, colour = Subscale)) +
   ylab('AQ Score') +
   geom_smooth(method=lm, se = FALSE)+
   scale_y_continuous(breaks=c(0,2,4,6,8,10))  +
+  xlim(0,1)+
   theme(axis.title.y = element_blank())
 
 
 plots &lt;- ggarrange(plot.e, plot.m, plot.f,
           ncol=1, common.legend = TRUE, legend="right")  +
-    scale_y_continuous(breaks=c(0,2,4,6,8,10)) 
+    scale_y_continuous(breaks=c(0,2,4,6,8,10))+
+    xlim(0,1)
   
 
 annotate_figure(plots, left = text_grob("AQ Score", rot = 90, vjust = 1))
@@ -2341,18 +2345,23 @@ agg &lt;- agg %&gt;%
 xx &lt;- left_join(agg, aq, by = c("code"))
 xx &lt;- xx[, -1]
 
-cor &lt;- round(xx, 3)
-cor_mat &lt;- cor_pmat(cor)
+cor_mat &lt;- cor_pmat(xx)
 
-cor_plot &lt;- ggcorrplot(
+p &lt;- ggcorrplot(
   cor_mat,
   hc.order = TRUE,
   type = "lower",
-  colors = c("darkblue", "blue", "skyblue"),
-  p.mat = cor_mat
+  outline.color = "gray",
+  lab=TRUE,
+  lab_size = 5
 )
 
-plotly::ggplotly(cor_plot)
+plot &lt;- 
+  p + 
+  scale_fill_gradient2(limit = c(0,1), 
+                       low = "#6D9EC1", high =  "#E46726", mid = "white", midpoint = 0.05)
+
+plotly::ggplotly(plot)
 
 ```
 
